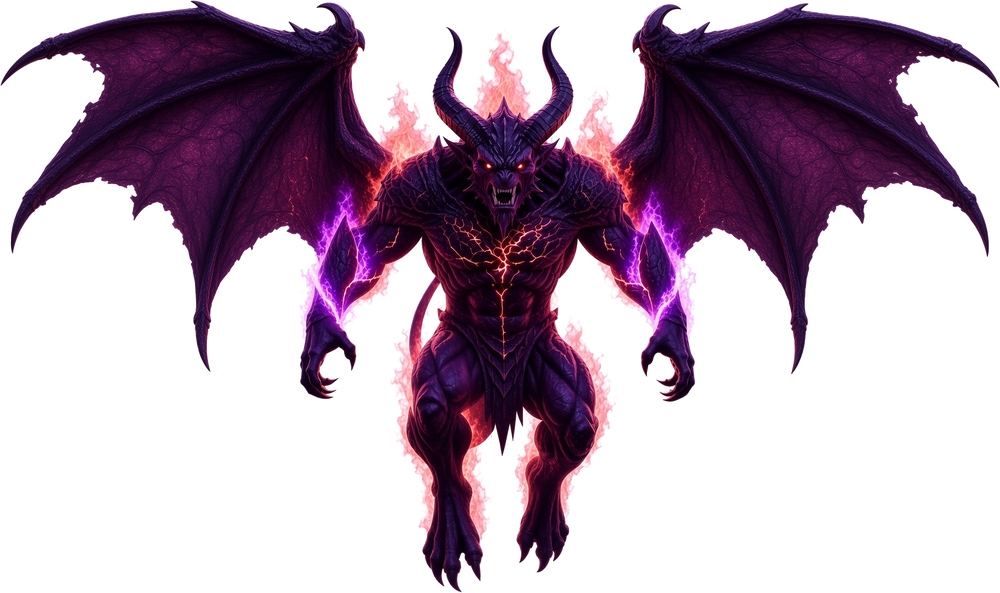
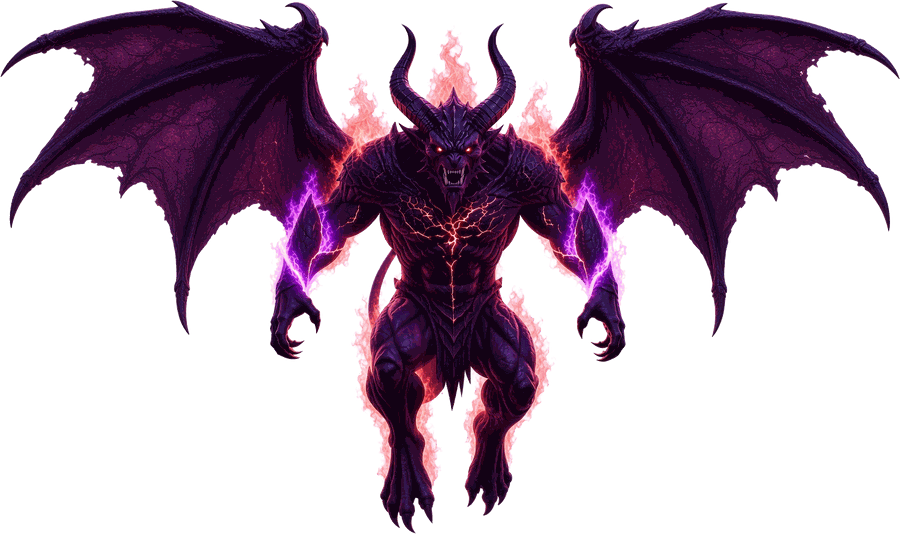
改用逐檔內容雜湊當快取版本，換素材不再讓手機整包重抓
先前所有影片共用一個 MEDIA_VERSION、所有圖共用一個 ART_VERSION，
只要換掉一支影片就得把常數 +1，手機上 70 支影片與全部圖都會變成新
網址而重新下載。今天連續改了兩次，等於讓 4G 重抓兩遍五十幾 MB，這
是「圖跟動畫很慢才出來」的原因，魔王立繪也因此在該顯示時還沒下載完。

新增 tools/gen_asset_versions.py 產生 js/assetVersions.js，逐檔記錄
內容雜湊；videoPlayer.versioned() 與 game.js 新的 artUrl() 優先查表，
查不到才退回原本的全域版本號。沒動到的素材網址不變，直接走快取。

魔王立繪另外改用 WebP（607KB -> 97KB，附 PNG 備援）並加上 preload，
避免它在 ACT2 該出現時還在跟影片搶頻寬。

順帶修掉自己引入的 bug：加了 width/height 屬性卻沒設 height:auto，
會讓魔王被縱向拉伸成 305x534；補上後恢復正確的 305x181。

diff --git a/js/assetVersions.js b/js/assetVersions.js
@@ -1,0 +1,151 @@
+/* 由 tools/gen_asset_versions.py 產生，請勿手改。
+   逐檔內容雜湊：沒動到的素材網址不變，手機就不會整包重抓。 */
+window.HF_ASSET_V = {
+"assets/videos/mobile/attack/amazon.mp4":"f9bcbcbfd1",
+"assets/videos/mobile/attack/archmage.mp4":"614b939014",
+"assets/videos/mobile/attack/assassin.mp4":"e2a8b4b92c",
+"assets/videos/mobile/attack/axeman.mp4":"c4afadac34",
+"assets/videos/mobile/attack/dark_elf.mp4":"5dbc89a360",
+"assets/videos/mobile/attack/dark_fighter.mp4":"6dc2985b75",
+"assets/videos/mobile/attack/dark_mage.mp4":"c534a15955",
+"assets/videos/mobile/attack/dragon_knight.mp4":"66f7edce88",
+"assets/videos/mobile/attack/knight.mp4":"461ca92e20",
+"assets/videos/mobile/attack/monk.mp4":"2eb6f1c409",
+"assets/videos/mobile/attack/orc_archer.mp4":"c6867f562c",
+"assets/videos/mobile/attack/paladin.mp4":"d202e1d0db",
+"assets/videos/mobile/attack/princess.mp4":"b09aafaf34",
+"assets/videos/mobile/attack/ranger.mp4":"a7b01e025a",
+"assets/videos/mobile/boss/arrival.mp4":"7e2f8f60bc",
+"assets/videos/mobile/confirm/amazon.mp4":"1502f82c4f",
+"assets/videos/mobile/confirm/archmage.mp4":"a96822494d",
+"assets/videos/mobile/confirm/assassin.mp4":"7e5e335095",
+"assets/videos/mobile/confirm/axeman.mp4":"97f4c8b95a",
+"assets/videos/mobile/confirm/dark_elf.mp4":"ce079c68ca",
+"assets/videos/mobile/confirm/dark_fighter.mp4":"ab50838b1c",
+"assets/videos/mobile/confirm/dark_mage.mp4":"8b48f283b6",
+"assets/videos/mobile/confirm/dragon_knight.mp4":"b11d9d939a",
+"assets/videos/mobile/confirm/knight.mp4":"aae6571baf",
+"assets/videos/mobile/confirm/monk.mp4":"a43ae20646",
+"assets/videos/mobile/confirm/orc_archer.mp4":"cebc55bab2",
+"assets/videos/mobile/confirm/paladin.mp4":"60f84721df",
+"assets/videos/mobile/confirm/princess.mp4":"e9151057ce",
+"assets/videos/mobile/confirm/ranger.mp4":"210a6a331b",
+"assets/videos/mobile/final/amazon.mp4":"87c50bae23",
+"assets/videos/mobile/final/archmage.mp4":"46c393721e",
+"assets/videos/mobile/final/assassin.mp4":"a95fbaeddc",
+"assets/videos/mobile/final/axeman.mp4":"7e44089c0c",
+"assets/videos/mobile/final/dark_elf.mp4":"c38e5c8c72",
+"assets/videos/mobile/final/dark_fighter.mp4":"36931b7863",
+"assets/videos/mobile/final/dark_mage.mp4":"1619015174",
+"assets/videos/mobile/final/dragon_knight.mp4":"dcdc408591",
+"assets/videos/mobile/final/knight.mp4":"e57eb14f78",
+"assets/videos/mobile/final/monk.mp4":"1d0e7ece1a",
+"assets/videos/mobile/final/orc_archer.mp4":"e3ecc3de2a",
+"assets/videos/mobile/final/paladin.mp4":"d7e23722bb",
+"assets/videos/mobile/final/princess.mp4":"00dc8fc4f4",
+"assets/videos/mobile/final/ranger.mp4":"b27e62035e",
+"assets/videos/mobile/victory/amazon.mp4":"6b68db6422",
+"assets/videos/mobile/victory/archmage.mp4":"be5a74749a",
+"assets/videos/mobile/victory/assassin.mp4":"2db9d65b77",
+"assets/videos/mobile/victory/axeman.mp4":"8471a99687",
+"assets/videos/mobile/victory/dark_elf.mp4":"ecd4ca6904",
+"assets/videos/mobile/victory/dark_fighter.mp4":"a7ea994fe7",
+"assets/videos/mobile/victory/dark_mage.mp4":"6d554c82c1",
+"assets/videos/mobile/victory/dragon_knight.mp4":"6befc9bbf2",
+"assets/videos/mobile/victory/knight.mp4":"af5266415d",
+"assets/videos/mobile/victory/monk.mp4":"f121557f56",
+"assets/videos/mobile/victory/orc_archer.mp4":"29a25f6325",
+"assets/videos/mobile/victory/paladin.mp4":"40f4985bd1",
+"assets/videos/mobile/victory/princess.mp4":"a3c00b98ad",
+"assets/videos/mobile/victory/ranger.mp4":"fddd9a37f2",
+"assets/videos/mobile/wait/amazon.mp4":"8221d0484f",
+"assets/videos/mobile/wait/archmage.mp4":"79c934aa12",
+"assets/videos/mobile/wait/assassin.mp4":"34a32d2bb1",
+"assets/videos/mobile/wait/axeman.mp4":"20db8d212c",
+"assets/videos/mobile/wait/dark_elf.mp4":"a8ec802f91",
+"assets/videos/mobile/wait/dark_fighter.mp4":"85afebef2e",
+"assets/videos/mobile/wait/dark_mage.mp4":"8a65af2dd7",
+"assets/videos/mobile/wait/dragon_knight.mp4":"d7f701a456",
+"assets/videos/mobile/wait/knight.mp4":"b7338feb77",
+"assets/videos/mobile/wait/monk.mp4":"8ebf348505",
+"assets/videos/mobile/wait/orc_archer.mp4":"86bfa91c9e",
+"assets/videos/mobile/wait/paladin.mp4":"26166faec7",
+"assets/videos/mobile/wait/princess.mp4":"a07e7baf24",
+"assets/videos/mobile/wait/ranger.mp4":"09b1f7c912",
+"assets/videos/poster/attack/amazon.jpg":"2cabf0bdeb",
+"assets/videos/poster/attack/archmage.jpg":"c91fba03bb",
+"assets/videos/poster/attack/assassin.jpg":"153ef8dbf2",
+"assets/videos/poster/attack/axeman.jpg":"9feb302ae7",
+"assets/videos/poster/attack/dark_elf.jpg":"44755061d0",
+"assets/videos/poster/attack/dark_fighter.jpg":"0d3dd347e3",
+"assets/videos/poster/attack/dark_mage.jpg":"e34bd101ba",
+"assets/videos/poster/attack/dragon_knight.jpg":"1fd2ffa365",
+"assets/videos/poster/attack/knight.jpg":"a5b703035c",
+"assets/videos/poster/attack/monk.jpg":"7e71c28217",
+"assets/videos/poster/attack/orc_archer.jpg":"2e3377150d",
+"assets/videos/poster/attack/paladin.jpg":"353b2e94a9",
+"assets/videos/poster/attack/princess.jpg":"4e1ef040d5",
+"assets/videos/poster/attack/ranger.jpg":"15a943ad48",
+"assets/videos/poster/boss/arrival.jpg":"fb0297b9e6",
+"assets/videos/poster/final/amazon.jpg":"a31c8d3168",
+"assets/videos/poster/final/archmage.jpg":"ca7945d9dc",
+"assets/videos/poster/final/assassin.jpg":"e5a7fe775d",
+"assets/videos/poster/final/axeman.jpg":"0e16fb17b2",
+"assets/videos/poster/final/dark_elf.jpg":"4d691a6a0f",
+"assets/videos/poster/final/dark_fighter.jpg":"875bb21268",
+"assets/videos/poster/final/dark_mage.jpg":"1898ac6066",
+"assets/videos/poster/final/dragon_knight.jpg":"c9b88b224c",
+"assets/videos/poster/final/knight.jpg":"8274cde39e",
+"assets/videos/poster/final/monk.jpg":"1c2ee70405",
+"assets/videos/poster/final/orc_archer.jpg":"e1b95117fa",
+"assets/videos/poster/final/paladin.jpg":"e043f6231a",
+"assets/videos/poster/final/princess.jpg":"2c702f0afe",
+"assets/videos/poster/final/ranger.jpg":"2955c78239",
+"assets/videos/poster/victory/amazon.jpg":"eaee4f2d8d",
+"assets/videos/poster/victory/archmage.jpg":"bbe19a9779",
+"assets/videos/poster/victory/assassin.jpg":"8110e2c971",
+"assets/videos/poster/victory/axeman.jpg":"ff69387581",
+"assets/videos/poster/victory/dark_elf.jpg":"4837fa1fd6",
+"assets/videos/poster/victory/dark_fighter.jpg":"0f82d94ff0",
+"assets/videos/poster/victory/dark_mage.jpg":"3338e7b167",
+"assets/videos/poster/victory/dragon_knight.jpg":"b6c39abd83",
+"assets/videos/poster/victory/knight.jpg":"0cd397537e",
+"assets/videos/poster/victory/monk.jpg":"4d5a7ee14b",
+"assets/videos/poster/victory/orc_archer.jpg":"baf373dd16",
+"assets/videos/poster/victory/paladin.jpg":"1d38865833",
+"assets/videos/poster/victory/princess.jpg":"f492868857",
+"assets/videos/poster/victory/ranger.jpg":"9f28995b84",
+"assets/heroes/amazon.png":"eb87c228e6",
+"assets/heroes/archmage.png":"cebbdc95e8",
+"assets/heroes/assassin.png":"3970d68a58",
+"assets/heroes/axeman.png":"abcb4cd426",
+"assets/heroes/dark_elf.png":"935aee5b90",
+"assets/heroes/dark_fighter.png":"9c614bd9b2",
+"assets/heroes/dark_mage.png":"8e752cc9e4",
+"assets/heroes/dragon_knight.png":"4d4cacb59b",
+"assets/heroes/knight.png":"db086998ac",
+"assets/heroes/monk.png":"82bf3c69d9",
+"assets/heroes/orc_archer.png":"6772ae4f1a",
+"assets/heroes/paladin.png":"9d5ed22c01",
+"assets/heroes/princess.png":"96218e6b94",
+"assets/heroes/ranger.png":"2fc49c63c5",
+"assets/heroes/portraits/amazon.jpg":"ba69400e54",
+"assets/heroes/portraits/archmage.jpg":"88a46a2329",
+"assets/heroes/portraits/assassin.jpg":"39eb4b429f",
+"assets/heroes/portraits/axeman.jpg":"11f383f4aa",
+"assets/heroes/portraits/dark_elf.jpg":"59a535eae3",
+"assets/heroes/portraits/dark_fighter.jpg":"431d0b4d67",
+"assets/heroes/portraits/dark_mage.jpg":"ad8268fd96",
+"assets/heroes/portraits/dragon_knight.jpg":"f1a3166130",
+"assets/heroes/portraits/knight.jpg":"19c2e34511",
+"assets/heroes/portraits/monk.jpg":"62f61e3d26",
+"assets/heroes/portraits/orc_archer.jpg":"7ef9ed013a",
+"assets/heroes/portraits/paladin.jpg":"3400cbdc6f",
+"assets/heroes/portraits/princess.jpg":"a440ebe206",
+"assets/heroes/portraits/ranger.jpg":"f10aef4e72",
+"assets/boss_model_v2.png":"13acf17176",
+"assets/boss_model_v3.png":"c0c3a251a0",
+"assets/boss_model_v3.webp":"56887d24c5",
+"assets/bg_battle_arena_v2.jpg":"177525d735",
+"assets/ref_battle_mobile.mp4":"1a0d94d8bb"
+};

diff --git a/js/game.js b/js/game.js
@@ -169,14 +169,21 @@
 
   /** 立繪／頭像的快取版本：換圖時必須連帶提高，否則手機會一直吃舊快取 */
   const ART_VERSION = "4";
+  /**
+   * 圖檔網址一律走這裡：優先用 tools/gen_asset_versions.py 產生的逐檔雜湊，
+   * 查不到才退回全域 ART_VERSION。只換幾張圖時，其餘圖的網址不變 → 手機不重抓。
+   */
+  function artUrl(path) {
+    return `${path}?v=${window.HF_ASSET_V?.[path] || ART_VERSION}`;
+  }
 
   function heroImg(id) {
-    return `assets/heroes/${id}.png?v=${ART_VERSION}`;
+    return artUrl(`assets/heroes/${id}.png`);
   }
 
   /** 選角縮圖：雲端「選擇角色縮圖」頭像（3:4） */
   function heroThumb(id) {
-    return `assets/heroes/portraits/${id}.jpg?v=${ART_VERSION}`;
+    return artUrl(`assets/heroes/portraits/${id}.jpg`);
   }
 
   function playerLabel(i) {
@@ -843,7 +850,7 @@
       const img = new Image();
       img.decoding = "async";
       try { img.fetchPriority = "high"; } catch (_) {}
-      img.src = `assets/videos/poster/${kind}/${id}.jpg?v=${ART_VERSION}`;
+      img.src = artUrl(`assets/videos/poster/${kind}/${id}.jpg`);
       posterWarmRefs.push(img);
     });
   }
@@ -953,7 +960,7 @@
 
     try {
       video.pause();
-      video.poster = `assets/videos/poster/final/${hero.id}.jpg?v=${ART_VERSION}`;
+      video.poster = artUrl(`assets/videos/poster/final/${hero.id}.jpg`);
       video.src = window.HF_VideoPlayer?.versioned
         ? window.HF_VideoPlayer.versioned(url)
         : url;
@@ -1022,7 +1029,7 @@
 
         video.pause();
         // 首幀圖與影片同比例，載入中先頂著，避免黑畫面
-        video.poster = `assets/videos/poster/attack/${h.id}.jpg?v=${ART_VERSION}`;
+        video.poster = artUrl(`assets/videos/poster/attack/${h.id}.jpg`);
         video.src = window.HF_VideoPlayer?.versioned
           ? window.HF_VideoPlayer.versioned(source)
           : source;
@@ -1540,7 +1547,7 @@
       video,
       "assets/videos/mobile/boss/arrival.mp4",
       7100 * fast,
-      { poster: `assets/videos/poster/boss/arrival.jpg?v=${ART_VERSION}` }
+      { poster: artUrl("assets/videos/poster/boss/arrival.jpg") }
     );
     if (!arrivalPlayed) {
       boss.style.setProperty("--boss-enter-ms", `${Math.max(1, 520 * fast)}ms`);

diff --git a/index.html b/index.html
@@ -19,8 +19,10 @@
   <link rel="preconnect" href="https://fonts.googleapis.com" />
   <link rel="preconnect" href="https://fonts.gstatic.com" crossorigin />
   <link href="https://fonts.googleapis.com/css2?family=M+PLUS+Rounded+1c:wght@500;700;800&family=Noto+Sans+TC:wght@400;500;700;900&display=swap" rel="stylesheet" />
-  <link rel="stylesheet" href="css/game.css?v=2" />
-  <link rel="stylesheet" href="css/revamp.css?v=21" />
+  <link rel="stylesheet" href="css/game.css?v=3" />
+  <link rel="stylesheet" href="css/revamp.css?v=23" />
+  <!-- 魔王立繪先抓：ACT2 一到就要顯示，晚了會是空的（4G 上尤其明顯） -->
+  <link rel="preload" as="image" href="assets/boss_model_v3.webp" type="image/webp" fetchpriority="high" />
 </head>
 <body>
   <div id="app">
@@ -192,7 +194,11 @@
           <div class="smoke" id="smoke"></div>
           <div class="boss" id="boss">
             <div class="boss-aura" aria-hidden="true"></div>
-            <img class="boss-img" src="assets/boss_model_v3.png" alt="魔王" />
+            <picture>
+              <source srcset="assets/boss_model_v3.webp" type="image/webp" />
+              <img class="boss-img" src="assets/boss_model_v3.png" alt="魔王"
+                   width="900" height="534" fetchpriority="high" decoding="async" />
+            </picture>
             <div class="boss-label"><span>DEMON LORD</span>魔王</div>
           </div>
           <div class="heroes-line" id="heroes-line" aria-label="參戰英雄"></div>
@@ -324,11 +330,13 @@
       <span></span><span></span><span></span><span></span>
     </div>
   </div>
+  <!-- 逐檔素材版本表：由 tools/gen_asset_versions.py 產生，必須排在其他腳本之前 -->
+  <script src="js/assetVersions.js?v=301060bca0"></script>
   <script src="js/data.js?v=3"></script>
   <script src="js/rng.js?v=7"></script>
-  <script src="js/videoPlayer.js?v=24"></script>
+  <script src="js/videoPlayer.js?v=25"></script>
   <script src="js/audioDirector.js?v=6"></script>
   <script src="js/victoryFilm.js?v=12"></script>
-  <script src="js/game.js?v=51"></script>
+  <script src="js/game.js?v=52"></script>
 </body>
 </html>

diff --git a/js/videoPlayer.js b/js/videoPlayer.js
@@ -62,9 +62,18 @@ window.HF_VideoPlayer = (() => {
     });
   }
 
+  /**
+   * 逐檔內容雜湊優先（見 tools/gen_asset_versions.py）。
+   * 這樣只換一支影片時，其他 69 支的網址不變，手機不會整包重抓；
+   * 版本表還沒載入或查不到時才退回全域 MEDIA_VERSION。
+   */
+  function assetVersion(path, fallback) {
+    return window.HF_ASSET_V?.[path] || fallback;
+  }
+
   function versioned(url) {
     if (!url) return null;
-    return url + (url.includes("?") ? "&" : "?") + `v=${MEDIA_VERSION}`;
+    return url + (url.includes("?") ? "&" : "?") + `v=${assetVersion(url, MEDIA_VERSION)}`;
   }
 
   /**
@@ -119,7 +128,8 @@ window.HF_VideoPlayer = (() => {
 
     function primeStill(id) {
       if (!id) return;
-      still.src = `assets/heroes/${id}.png?v=${ART_VERSION}`;
+      const p = `assets/heroes/${id}.png`;
+      still.src = `${p}?v=${assetVersion(p, ART_VERSION)}`;
       still.hidden = false;
     }
 

diff --git a/css/revamp.css b/css/revamp.css
@@ -1812,7 +1812,8 @@ body::after {
   animation: boss-aura 1.8s ease-in-out infinite alternate;
 }
 @keyframes boss-aura { to { opacity: .55; transform: translate(-50%, -50%) scale(1.13); } }
-.boss-img { width: 100%; filter: drop-shadow(0 0 18px rgba(190,100,255,.84)) drop-shadow(0 18px 22px rgba(0,0,0,.74)); }
+.boss picture { display: block; width: 100%; }
+.boss-img { width: 100%; height: auto; filter: drop-shadow(0 0 18px rgba(190,100,255,.84)) drop-shadow(0 18px 22px rgba(0,0,0,.74)); }
 .boss-label {
   width: max-content;
   margin: -0.3rem auto 0;

diff --git a/css/game.css b/css/game.css
@@ -555,7 +555,7 @@ html, body {
   to { transform: translateX(-50%) translateY(0) scale(1); opacity: 1; }
 }
 .boss-img {
-  width: 100%; display: block;
+  width: 100%; height: auto; display: block;
   filter: drop-shadow(0 0 24px #a855f7aa) drop-shadow(0 10px 0 #0006);
 }
 .boss-label {

diff --git a/tools/gen_asset_versions.py b/tools/gen_asset_versions.py
@@ -1,0 +1,92 @@
+#!/usr/bin/env python3
+"""產生每個素材檔各自的內容雜湊版本號。
+
+為什麼要這個：以前所有影片共用一個 `MEDIA_VERSION`、所有圖共用一個
+`ART_VERSION`，只要換掉一支影片就得把常數 +1，手機上**全部 70 支影片與
+所有圖都會變成新網址而重新下載**（4G 上就是幾十 MB）。改成逐檔雜湊之後，
+沒動到的檔案網址不變，瀏覽器直接用快取，只有真的換過的檔才會重抓。
+
+用法（換過任何素材後都要跑一次，然後才 commit）：
+
+    python3 tools/gen_asset_versions.py
+
+它會寫出 `js/assetVersions.js`，並把 `index.html` 裡該檔的 `?v=` 更新成它自己
+的雜湊，確保 index.html 一被重新驗證就會指到正確的版本表。
+"""
+
+from __future__ import annotations
+
+import hashlib
+import json
+import pathlib
+import re
+import sys
+
+ROOT = pathlib.Path(__file__).resolve().parents[1]
+
+# 要納入版本表的素材（相對專案根目錄）
+PATTERNS = [
+    "assets/videos/mobile/**/*.mp4",
+    "assets/videos/poster/**/*.jpg",
+    "assets/heroes/*.png",
+    "assets/heroes/portraits/*.jpg",
+    "assets/boss_model_v*.png",
+    "assets/boss_model_v*.webp",
+    "assets/bg_battle_arena_v2.jpg",
+    "assets/ref_battle_mobile.mp4",
+]
+
+OUT_JS = ROOT / "js" / "assetVersions.js"
+INDEX = ROOT / "index.html"
+
+
+def digest(path: pathlib.Path) -> str:
+    h = hashlib.sha1()
+    with path.open("rb") as f:
+        for chunk in iter(lambda: f.read(1 << 20), b""):
+            h.update(chunk)
+    return h.hexdigest()[:10]
+
+
+def main() -> int:
+    table: dict[str, str] = {}
+    for pattern in PATTERNS:
+        for f in sorted(ROOT.glob(pattern)):
+            if f.is_file():
+                table[f.relative_to(ROOT).as_posix()] = digest(f)
+
+    if not table:
+        print("找不到任何素材，請確認執行目錄", file=sys.stderr)
+        return 1
+
+    body = json.dumps(table, ensure_ascii=False, indent=0, separators=(",", ":"))
+    OUT_JS.write_text(
+        "/* 由 tools/gen_asset_versions.py 產生，請勿手改。\n"
+        "   逐檔內容雜湊：沒動到的素材網址不變，手機就不會整包重抓。 */\n"
+        f"window.HF_ASSET_V = {body};\n",
+        encoding="utf-8",
+    )
+
+    # index.html 指向這份版本表時，用它自己的雜湊當查詢字串
+    self_hash = digest(OUT_JS)
+    html = INDEX.read_text(encoding="utf-8")
+    new_html, n = re.subn(
+        r'(<script src="js/assetVersions\.js)(\?v=[^"]*)?(")',
+        rf'\1?v={self_hash}\3',
+        html,
+    )
+    if n == 0:
+        print(
+            "⚠ index.html 找不到 assetVersions.js 的 <script>，請先加上：\n"
+            '   <script src="js/assetVersions.js"></script>（放在 data.js 之前）',
+            file=sys.stderr,
+        )
+    else:
+        INDEX.write_text(new_html, encoding="utf-8")
+
+    print(f"✅ {len(table)} 個素材寫入 {OUT_JS.relative_to(ROOT)}（版本表雜湊 {self_hash}）")
+    return 0
+
+
+if __name__ == "__main__":
+    raise SystemExit(main())
